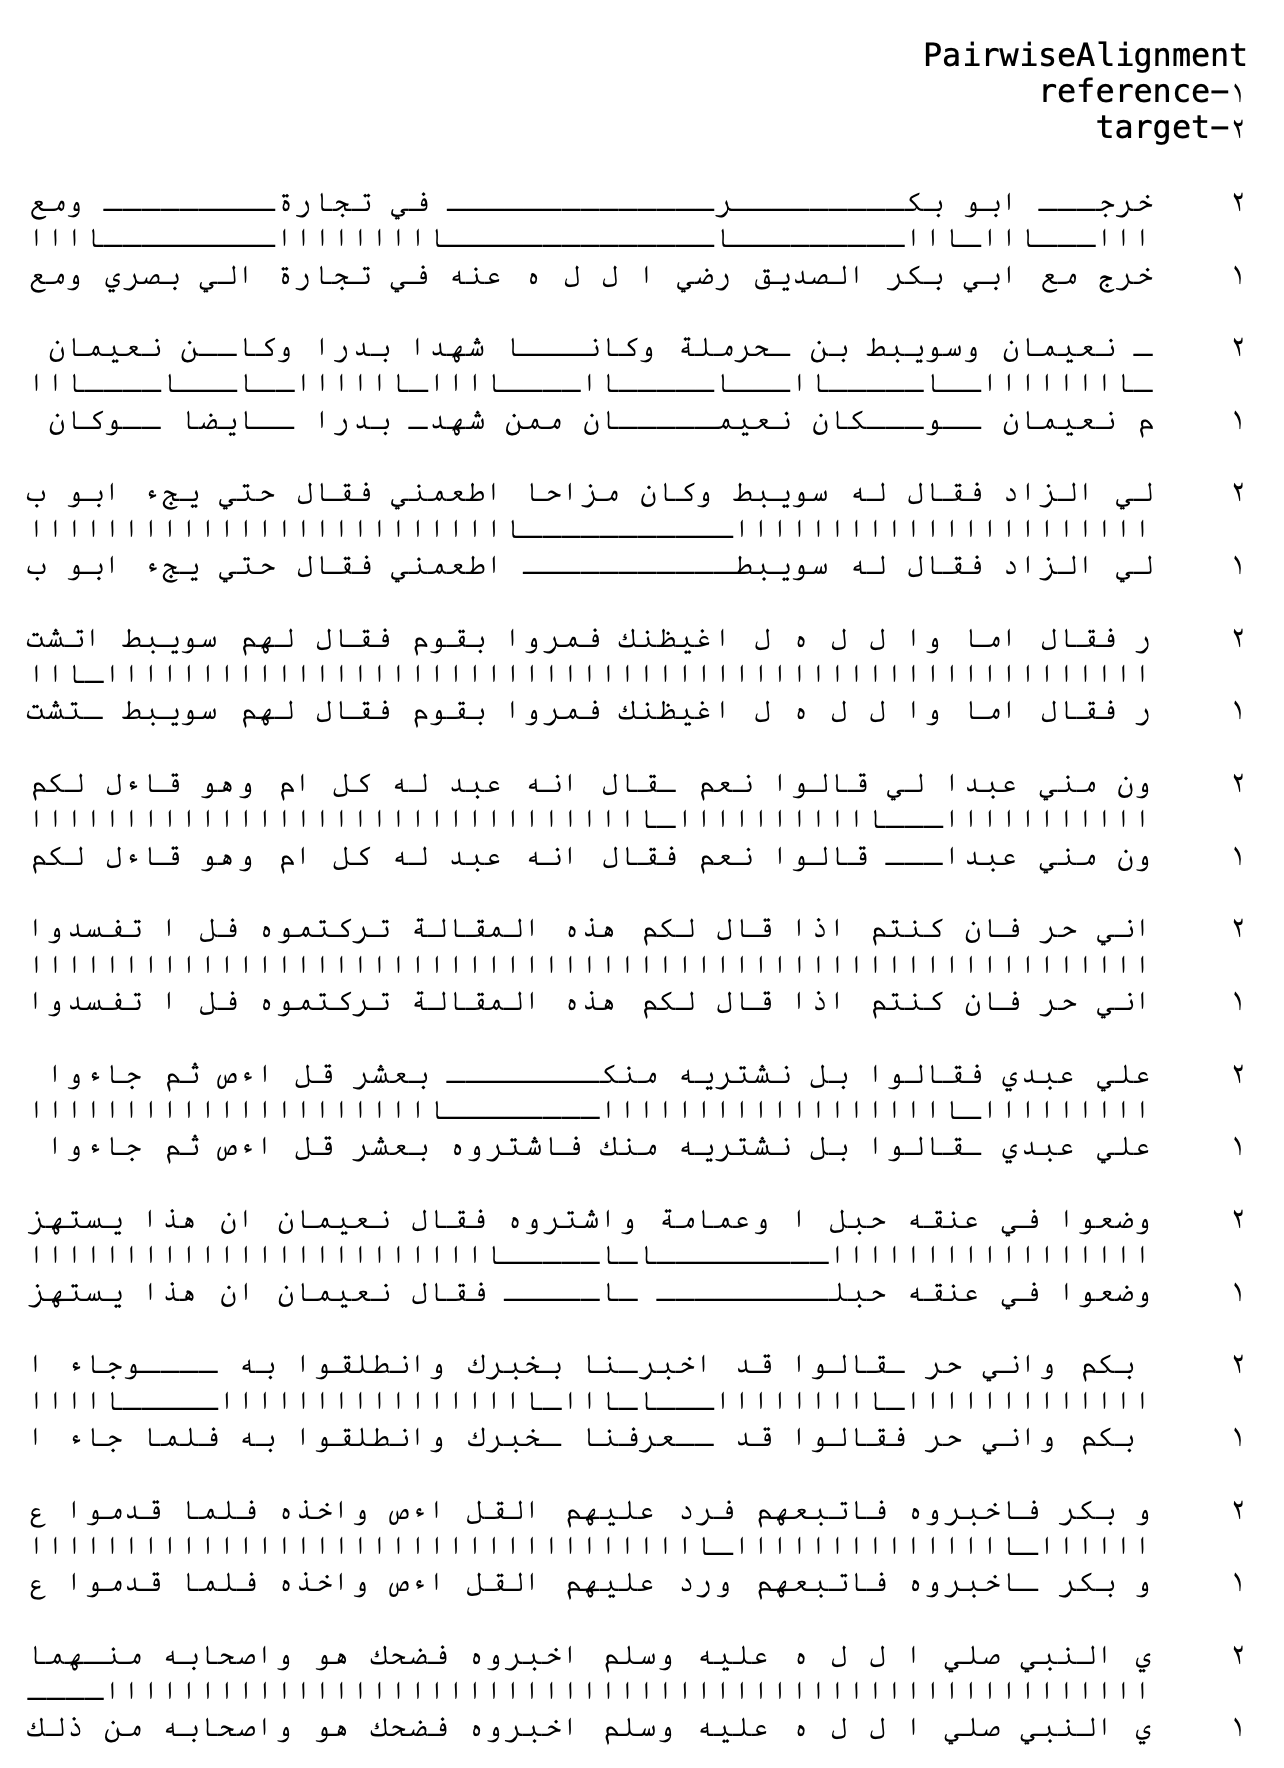
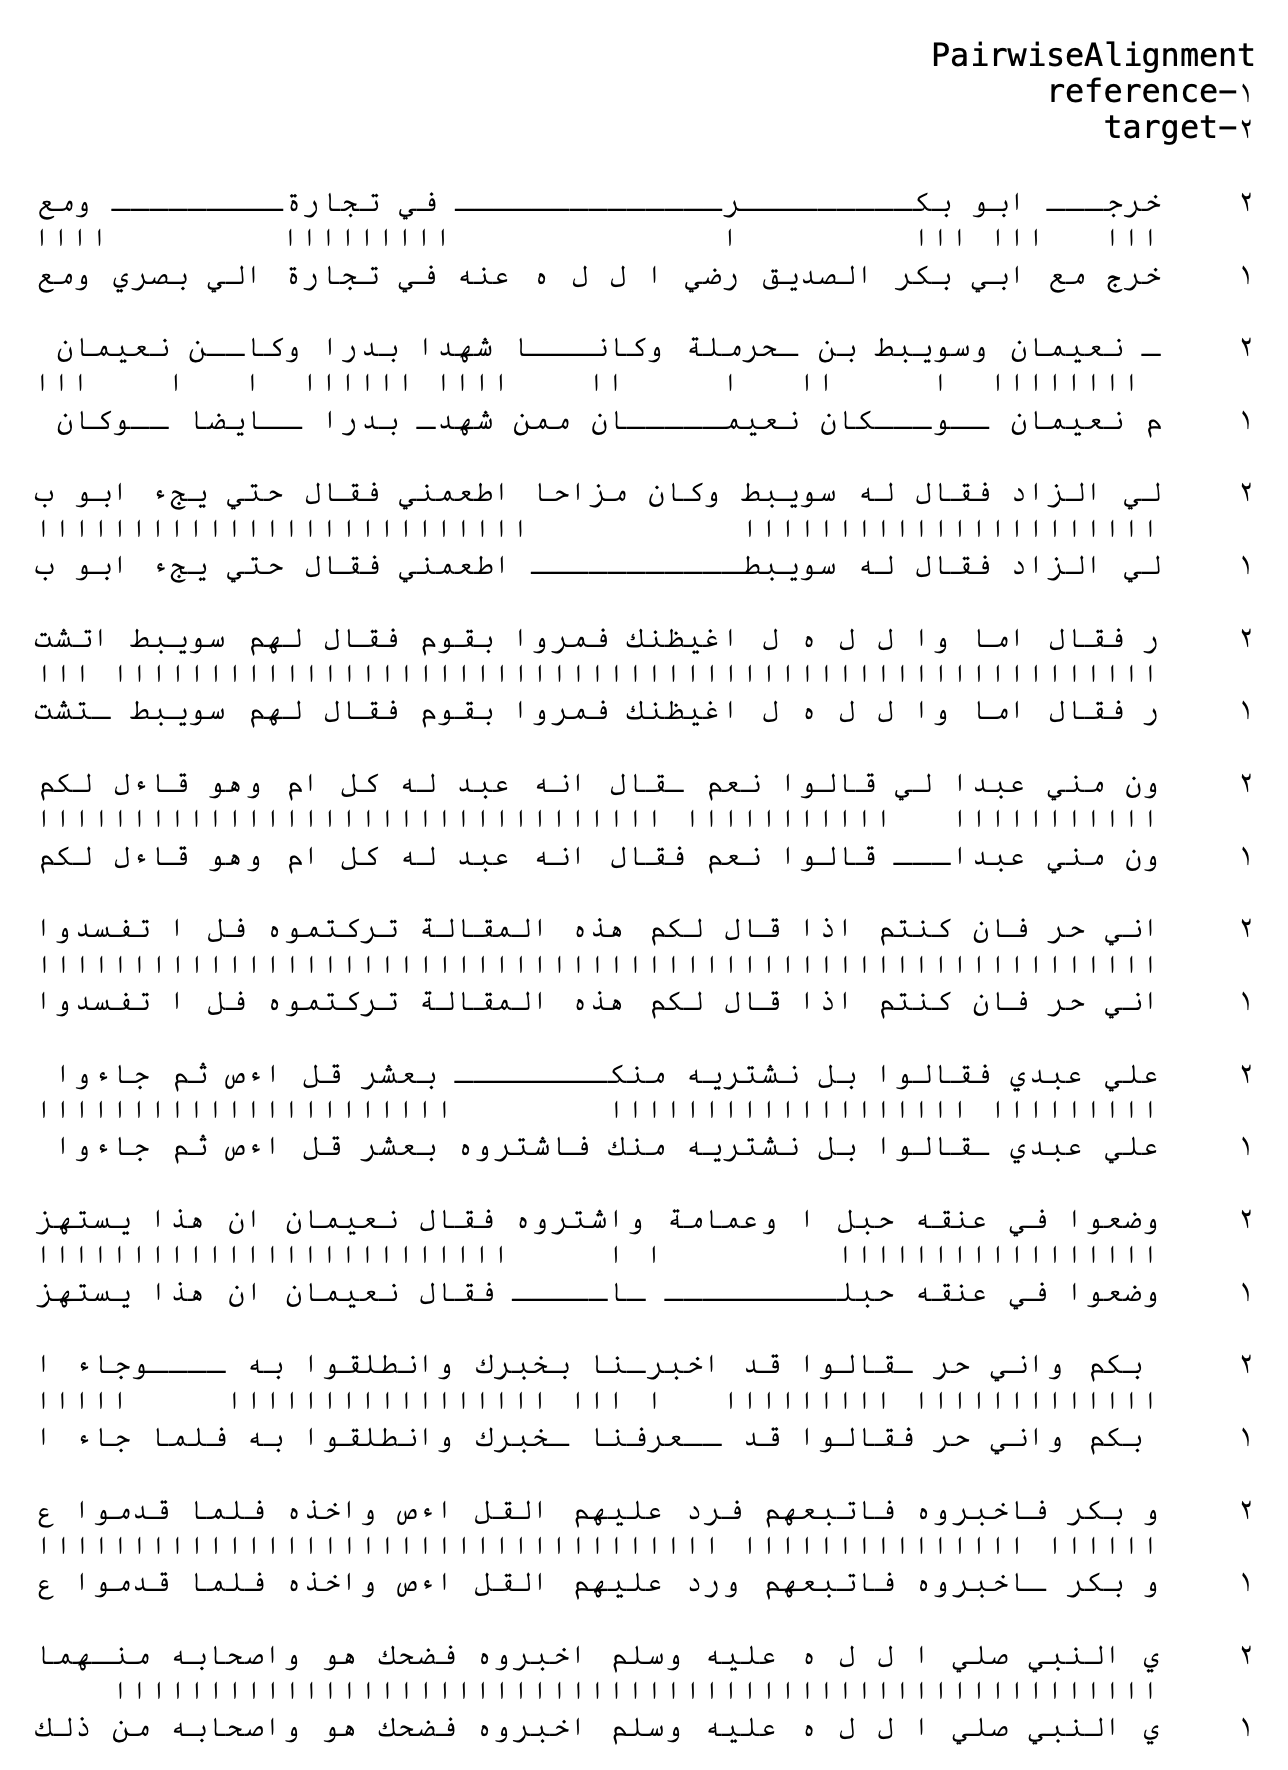
update align

diff --git a/docs/src/man/text_alignment.md b/docs/src/man/text_alignment.md
@@ -64,8 +64,15 @@ not clear. What you can do is to copy the output and paste it into a text
 editor with Arabic Monospace font (e.g. [Kawkab font](https://makkuk.com/kawkab-mono/#:~:text=Kawkab%20Mono%20(%D9%83%D9%88%D9%83%D8%A8%20%D9%85%D9%88%D9%86%D9%88)%20is,a%20void%20in%20this%20niche.)),
 and set it to right-justified. Here is the result under macOS's Text Editor (after setting to right-justified):
 ```@raw html
-<img src="docs/src/assets/alignment.png" align="center"/>
+<img src="https://github.com/alstat/Yunir.jl/raw/main/docs/src/assets/alignment.png" align="center"/>
 ```
+The result of the alignment is a list of group of 60 characters of reference text indicated by the Arabic 
+character ١, and the target texts indicated by the Arabic character ٢. If the character matches, a Alif (i.e., ا)
+is inserted between the rows of reference and target characters. If a tatweel (i.e., "ـ") is present in the target row,
+it means those tatweels represent the deletion of characters from the reference texts. If a tatweel is present in the reference
+text, it means an insertion of characters was done in target text. If both characters of target and reference texts are not matched,
+then a space is inserted between their rows.
+
 ### Alignment statistics
 From the results above, we can extract the score of alignment which is a 
 distance measure between the reference and the target texts. The lower the score
